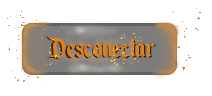
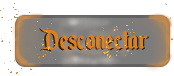
Habemus Vestibulum.

diff --git a/src/main/resources/static/src/theForge_lobby.js b/src/main/resources/static/src/theForge_lobby.js
@@ -1,15 +1,73 @@
 "use strict";
 
-var sc_lobby = new Phaser.Scene('Lobby');
+var sc_lobby = new Phaser.Scene("Lobby");
 
 sc_lobby.preload = function() {
-
+    this.load.html('chatBox', '../src/chatBox.html');
+    this.load.html('chatInput', '../src/chatInput.html');
+    this.load.html('usersBox', '../src/usersBox.html');
 }
 
 sc_lobby.create = function() {
+    this.bg = sc_lobby.add.image(400, 300, "fondo online-lobby");
+    var disconnectButton = sc_lobby.add.sprite(79, 556, "botonDesconectar");
+    var chatInput = sc_lobby.add.dom(355,557).createFromCache('chatInput');
+    sc_lobby.chatBox = sc_lobby.add.dom(355,482).createFromCache('chatBox');
+    sc_lobby.usersBox = sc_lobby.add.dom(355,241).createFromCache('usersBox');
+    var sendButton = sc_lobby.add.sprite(591, 547, "botonEnviar");
 
+    sc_lobby.chatBox.getChildByName('chatBox').value = "";
+    sc_lobby.usersBox.getChildByName('usersBox').value = "";
+
+    disconnectButton.setInteractive();
+    disconnectButton.on('pointerdown', function (event) {
+        $.ajax({
+            method: "DELETE",
+            url: "http://" + cont.server_ip + "/players/"+cont.id
+        }).done(function (item) {
+            cont.server_ip = null;
+            cont.connected = false;
+            cont.id = -1;
+            cont.name = null;
+            sc_lobby.scene.start("MenuPrincipal");
+        }).error(function(item){
+            console.log("Algo ha salido mal al desconectarte. Una pena que no vayas a saberlo porque esto es un console.log");
+        });
+    });
+
+    sendButton.setInteractive();
+    sendButton.on('pointerdown', function (event) {
+        if (chatInput.getChildByName('chatField').value !== '') {
+            $.ajax({
+                method: "POST",
+                    url: "http://" + cont.server_ip + "/chat/",
+                    data: JSON.stringify({
+                        sender: cont.name,
+                        message: chatInput.getChildByName('chatField').value
+                    }),
+                    processData: false,
+                    headers: {
+                        "Content-type": "application/json"
+                    },
+                    success: function(item, textStatus, jqXHR) {
+                        chatInput.getChildByName('chatField').value = "";
+                    }
+            });
+        }
+    })
 }
 
 sc_lobby.update = function() {
-
+    while (unreadChatMessages.length != 0) {
+        var msg = unreadChatMessages.pop();
+        sc_lobby.chatBox.getChildByName('chatBox').value += "["+msg.time+"] "+msg.sender+": "+msg.message+"\n";
+        if (document.activeElement !== sc_lobby.chatBox.getChildByName('chatBox')) {
+            sc_lobby.chatBox.getChildByName('chatBox').scrollTop = sc_lobby.chatBox.getChildByName('chatBox').scrollHeight;
+        }
+    }
+    sc_lobby.usersBox.getChildByName('usersBox').value = "USUARIOS CONECTADOS\n";
+    for(var i = 0; i < onlineUsers.length; i++) {
+        sc_lobby.usersBox.getChildByName('usersBox').value += onlineUsers[i]+"\n";
+    }
+       
 }

diff --git a/src/main/resources/static/src/theForge_onlineIP.js b/src/main/resources/static/src/theForge_onlineIP.js
@@ -12,6 +12,17 @@ sc_onlineIP.preload = function() {
 sc_onlineIP.create = function() {
 
     this.bg = sc_onlineIP.add.image(400, 300, "fondo online-lobby");
+
+    var disconnectButton = sc_onlineIP.add.sprite(90, 556, "botonSalir");
+    disconnectButton.setInteractive();
+    disconnectButton.on('pointerdown', function (event) {
+            cont.server_ip = null;
+            cont.connected = false;
+            cont.id = -1;
+            cont.name = null;
+            sc_onlineIP.scene.start("MenuPrincipal");
+    });
+
     var inputButton = sc_onlineIP.add.sprite(400, 350, "botonConectar");
 
     sc_onlineIP.textInfo = sc_onlineIP.add.text(400, 200, "\nIntroduce la dirección del servidor", {fontSize: '30px', fontFamily: 'Bookman', color: '#ff6600', stroke: '#000000', strokeThickness: 2, align: 'center'}).setOrigin(0.5, 0.5);
@@ -152,7 +163,9 @@ function showLoginPrompt() {
                             console.log(item);
                             cont.id = item;
                             cont.connected = true;
+                            cont.name = inputText.value;
                             contactServer();
+                            fetchChat();
                             sc_onlineIP.scene.start("Lobby");
                             break;
                     }
@@ -165,6 +178,9 @@ function showLoginPrompt() {
                         case 404:
                             sc_onlineIP.textInfo.setText("El usuario no existe\nIntroduzca su nombre de usuario y contraseña");
                             break;
+                        case 409:
+                                sc_onlineIP.textInfo.setText("El usuario ya está conectado\nIntroduzca su nombre de usuario y contraseña");
+                                break;
                         case 417:
                             sc_onlineIP.textInfo.setText("No se permiten espacios ni en el nombre ni en la contraseña\nIntroduzca su nombre de usuario y contraseña");
                             break;
@@ -217,7 +233,9 @@ function showLoginPrompt() {
                             console.log(item);
                             cont.id = item;
                             cont.connected = true;
+                            cont.name = inputText.value;
                             contactServer();
+                            fetchChat();
                             sc_onlineIP.scene.start("Lobby");
                             break;
                     }

diff --git a/src/main/resources/static/src/theForge_global.js b/src/main/resources/static/src/theForge_global.js
@@ -31,7 +31,9 @@ var cont = {
     server_ip: null,
     connected: false, 
     id: -1,
-    ch: 'SSHielo1'
+    ch: 'SSHielo1',
+    name: null,
+    lastChatMessage: -1
 }
 
 //funciones de música por aquí
@@ -61,10 +63,49 @@ function contactServer() {
             processData: false,
             headers: {
                 "Content-type": "application/json"
-            }
+            },
+            timeout: 3000
         }).done(function (item) {
-            console.log("Item updated: " + JSON.stringify(item));
+            console.log("Nuevo timeout: " + JSON.stringify(item));
+        }).error(function(e) {
+            cont.connected = false;
+            sc_lobby.scene.start("Disconnect");
         });
-        setTimeout(contactServer, 3000)
+        setTimeout(contactServer, 3000);
     }
+}
+
+var unreadChatMessages = [];
+var onlineUsers = [];
+function fetchChat() {
+    if (cont.connected) {
+        $.ajax({
+            method: "GET",
+            url: "http://" + cont.server_ip + "/chat/"+cont.lastChatMessage
+        }).success(function (item) {
+            //cont.lastChatMessage = item;
+            //console.log("Último mensaje del chat recibido: " + JSON.stringify(item));
+            if (item != undefined) {
+                console.log(item);
+                while (item.length != 0)
+                    unreadChatMessages.unshift(item.shift());
+                
+                cont.lastChatMessage = unreadChatMessages[0].id;
+            }
+            
+        });
+
+        $.ajax({
+            method: "GET",
+            url: "http://" + cont.server_ip + "/users/"
+        }).success(function (item) {
+            if (item != undefined) {
+                console.log(item);
+                onlineUsers = item;
+            }
+            
+        });
+
+        setTimeout(fetchChat, 500);
+    }  
 }

diff --git a/src/main/resources/static/src/theForge_disconnect.js b/src/main/resources/static/src/theForge_disconnect.js
@@ -1,0 +1,29 @@
+"use strict";
+
+
+var sc_disconnect = new Phaser.Scene('Disconnect');
+
+sc_disconnect.preload = function() {
+}
+
+sc_disconnect.create = function() {
+
+    this.bg = sc_disconnect.add.image(400, 300, "fondo online-lobby");
+
+    var disconnectButton = sc_disconnect.add.sprite(90, 556, "botonSalir");
+    disconnectButton.setInteractive();
+    disconnectButton.on('pointerdown', function (event) {
+            cont.server_ip = null;
+            cont.connected = false;
+            cont.id = -1;
+            cont.name = null;
+            sc_disconnect.scene.start("MenuPrincipal");
+    });
+
+    sc_disconnect.textInfo = sc_disconnect.add.text(400, 200, "Se ha interrumpido la conexión con el servidor", {fontSize: '30px', fontFamily: 'Bookman', color: '#ff6600', stroke: '#000000', strokeThickness: 2, align: 'center'}).setOrigin(0.5, 0.5);
+    
+}
+
+sc_disconnect.update = function() {
+    
+}

diff --git a/src/main/resources/static/src/login.html b/src/main/resources/static/src/login.html
@@ -1,7 +1,2 @@
 <input type="text" name="nameField" placeholder="Introduce tu nombre" style="font-size: 32px"><br>
 <input type="password" name="passwordField" placeholder="Introduce tu contraseña" style="font-size: 32px"><br>
-<!--<input type="button" name="loginButton" value="Iniciar sesión" style="font-size: 32px">
-<input type="button" name="registerButton" value="Registrarse" style="font-size: 32px">
-
-<img src="../assets/online/botonIniciarSesion.png" name="loginButton" style="margin:auto;">
-<img src="../assets/online/botonRegistrarse.png" name="registerButton" style="margin:auto;">-->

diff --git a/src/main/resources/static/src/theForge_Preloader.js b/src/main/resources/static/src/theForge_Preloader.js
@@ -407,9 +407,10 @@ sc_Preloader.preload = function()
     
     this.load.image("fondo online-lobby", "../assets/online/fondo online-lobby.png");
     this.load.image("botonConectar", "../assets/online/botonConectar.png");
+    this.load.image("botonDesconectar", "../assets/online/botonDesconectar.png");
     this.load.image("botonIniciarSesion", "../assets/online/botonIniciarSesion.png");
     this.load.image("botonRegistrarse", "../assets/online/botonRegistrarse.png");
-
+    this.load.image("botonEnviar", "../assets/online/botonEnviar.png");
 
 }
 

diff --git a/src/main/resources/static/src/theForge_core.js b/src/main/resources/static/src/theForge_core.js
@@ -15,7 +15,7 @@ var config = {
             debug: false
         }
     },
-    scene: [sc_Preloader, sc_menuPrincipal, sc_Guia, sc_menuAjustes, sc_SeleccionPersonaje, sc_juegoLocal, sc_onlineIP, sc_lobby] //Importante meter todas las escenas aquí
+    scene: [sc_Preloader, sc_menuPrincipal, sc_Guia, sc_menuAjustes, sc_SeleccionPersonaje, sc_juegoLocal, sc_onlineIP, sc_lobby, sc_disconnect] //Importante meter todas las escenas aquí
 };
 
 

diff --git a/src/main/resources/static/src/input.html b/src/main/resources/static/src/input.html
@@ -1,3 +1,1 @@
-<input type="text" name="nameField" placeholder="Introduce una IP" style="font-size: 32px"><br>
-<!--<input type="button" name="playButton" value="Conectar" style="font-size: 32px">
-<img src="../assets/online/botonConectar.png" name="playButton" style="margin:auto; display:block">-->
+<input type="text" name="nameField" placeholder="Introduce una IP" style="font-size: 32px">

diff --git a/src/main/resources/static/index.html b/src/main/resources/static/index.html
@@ -18,6 +18,7 @@
         <script src="src/theForge_localScene.js"></script>
         <script src="src/theForge_onlineIP.js"></script>
         <script src="src/theForge_lobby.js"></script>
+        <script src="src/theForge_disconnect.js"></script>
         <script src="src/theForge_core.js"></script>
     </head>
     <body>

diff --git a/src/main/resources/static/src/usersBox.html b/src/main/resources/static/src/usersBox.html
@@ -1,0 +1,1 @@
+<textarea name="usersBox" rows="10" cols="5" readonly=true style="resize: none; font-size: 12px; text-align: center; height: 264px; width: 175px; font-family: sans serif;"></textarea>

diff --git a/src/main/resources/static/src/chatBox.html b/src/main/resources/static/src/chatBox.html
@@ -1,0 +1,1 @@
+<textarea name="chatBox" rows="10" cols="50" readonly=true style="resize: none; font-size: 12px; height: 132px; width: 349px; font-family: sans serif;"></textarea>

diff --git a/src/main/resources/static/src/chatInput.html b/src/main/resources/static/src/chatInput.html
@@ -1,0 +1,1 @@
+<input type="text" name="chatField" placeholder="Escribe un mensaje" style="font-size: 12px; height: 12px; width: 349px">
